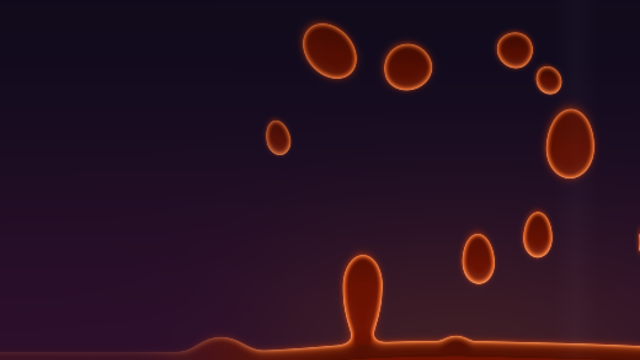
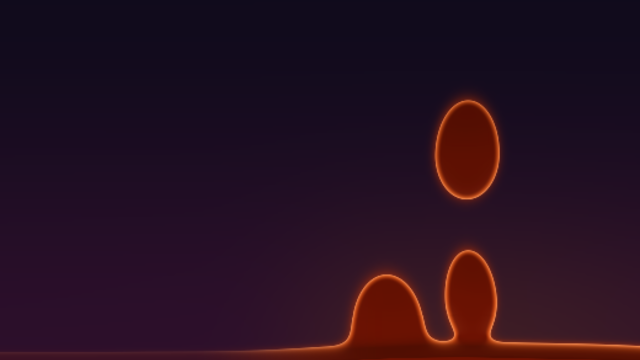
lava-lamp: two or three big blobs, count and size settings
A real lamp shows 2-4 blobs in motion, sized against its height; many
small drops read as an overheated lamp. amount is replaced by count
(1-8, default 3) and size (50-150 %); big blobs move slower and deform
more, neck beads are rare and rejoin the pool.

diff --git a/effects/lava-lamp/index.js b/effects/lava-lamp/index.js
@@ -51,21 +51,22 @@ function readTones(host, scheme) {
 const T0 = 0.3, KR = 1.73;
 // Wax from primary, the liquid from tertiary (dark) or secondary (light).
 const SCENE = {
-  home: 'dark', seed: 4127, reseed: ['amount', 'heat'], fresh: true,
+  home: 'dark', seed: 4127, reseed: ['count', 'size', 'heat'], fresh: true,
   tones: (read, scheme) => scheme === 'light'
     ? {top: mixc(read('--sf-neutral-98', '#faf9fe'), read('--sf-tertiary-95', '#ffebfc'), 0.5), low: mixc(read('--sf-neutral-100', '#ffffff'), read('--sf-secondary-95', '#ecf0ff'), 0.6),
       bulb: read('--sf-secondary-90', '#dae2f9'), deep: sat(mixc(read('--sf-primary-70', '#7eabff'), read('--sf-primary-80', '#acc7ff'), 0.6), 1.6), lit: sat(read('--sf-primary-80', '#acc7ff'), 1.4),
-      rim: read('--sf-primary-90', '#d8e2ff'), halo: read('--sf-primary-80', '#acc7ff'), shine: [255, 255, 255]}
+      rim: read('--sf-primary-90', '#d8e2ff'), halo: read('--sf-primary-80', '#acc7ff')}
     : {top: mixc(read('--sf-neutral-5', '#111318'), read('--sf-tertiary-10', '#29132f'), 0.6).map((c) => c * 0.85), low: mixc(read('--sf-tertiary-20', '#402845'), read('--sf-primary-20', '#002e69'), 0.3).map((c) => c * 0.8),
       bulb: vivid(read('--sf-secondary-40', '#565e71'), 1.3), deep: vivid(read('--sf-primary-20', '#002e69'), 1.6), lit: vivid(read('--sf-primary-50', '#2a75e8'), 1.4),
-      rim: mixc(read('--sf-primary-70', '#7eabff'), read('--sf-primary-80', '#acc7ff'), 0.4), halo: vivid(read('--sf-primary-40', '#005bbe'), 1.5), shine: read('--sf-tertiary-90', '#fbd7fc')},
+      rim: mixc(read('--sf-primary-70', '#7eabff'), read('--sf-primary-80', '#acc7ff'), 0.4), halo: vivid(read('--sf-primary-40', '#005bbe'), 1.5)},
   setup(env) {
     const {w, h, values} = env;
     const random = rng(SCENE.seed + env.salt);
-    const n = max(3, Math.round((4 + values.amount / 100 * 13) * clamp(w / h / 1.6, 0.6, 1.4)));
+    // A few big blobs, sized by the area's height (the lamp's height), as in a real lamp.
+    const n = max(1, values.count | 0), z = values.size / 100;
     const blobs = [];
     for (let i = 0; i < n; i += 1) {
-      const b = blob(random, h * (0.035 + 0.05 * random() ** 1.6), lane(env, random));
+      const b = blob(random, h * (0.085 + 0.035 * random()) * z, lane(env, random));
       b.y = random() < 0.5 ? h * (1 + 0.2 * b.r / h) : h * (0.1 + random() * 0.85); b.T = random() * 1.1;
       blobs.push(b);
     }
@@ -89,7 +90,7 @@ const SCENE = {
     }
     if (hit || state.blobs.length > state.n + 3) return;
     // Nothing near: a blob buds from the pool below the point (it melts back later).
-    const b = blob(state.random, h * (0.04 + 0.03 * state.random()), x);
+    const b = blob(state.random, h * (0.06 + 0.03 * state.random()) * env.values.size / 100, x);
     Object.assign(b, {y: h + b.r * 0.6, T: 1.35, g: 0.25, sw: 0.6, bud: true});
     state.blobs.push(b);
   },
@@ -108,10 +109,6 @@ const SCENE = {
     const cw = state.fw / state.s, ch = state.fh / state.s;
     ctx.drawImage(state.buf, 0, 0, cw, ch);
     ctx.drawImage(state.fbuf, 0, 0, cw, ch);
-    // The glass: one faint vertical highlight on the right.
-    const gx = w * 0.9, gw = w * 0.035, g = ctx.createLinearGradient(gx - gw, 0, gx + gw, 0);
-    g.addColorStop(0, rgba(tones.shine, 0)); g.addColorStop(0.5, rgba(tones.shine, (light ? 0.22 : 0.035) * k)); g.addColorStop(1, rgba(tones.shine, 0));
-    ctx.fillStyle = g; ctx.fillRect(gx - gw, 0, gw * 2, h);
     // A heat pulse: a warm swell of light, fading over two seconds.
     for (const p of state.pulses) {
       p.a -= dt * 0.5;
@@ -129,7 +126,7 @@ const SCENE = {
   },
 };
 // Most wax rises over the centre-right and right; a few lanes cross the text side, faint there.
-function lane(env, random) { return env.w * (random() < 0.88 ? 0.5 + random() * 0.46 : 0.22 + random() * 0.3); }
+function lane(env, random) { return env.w * (random() < 0.88 ? 0.55 + random() * 0.38 : 0.3 + random() * 0.25); }
 function blob(random, r, x) {
   return {r, lane: x, x, y: 0, T: 0, ph: random() * 100, rate: 0.75 + random() * 0.5, sw: 0, sv: 0, g: 1, sq: 0, ux: 0, uy: -1, vx: 0, vy: 0};
 }
@@ -143,7 +140,7 @@ function buffer(env, state) {
   const bctx = buf.getContext('2d'), fctx = fbuf.getContext('2d'), fimg = fctx.createImageData(fw, fh);
   // Over the text zone on the left the wax is only a faint trace.
   const fx = new Float32Array(fw);
-  for (let x = 0; x < fw; x += 1) fx[x] = 0.14 + 0.86 * smooth(clamp(((x + 0.5) / fw - 0.2) / 0.36, 0, 1));
+  for (let x = 0; x < fw; x += 1) fx[x] = 0.14 + 0.86 * smooth(clamp(((x + 0.5) / fw - 0.3) / 0.3, 0, 1));
   Object.assign(state, {buf, bctx, fbuf, fctx, fimg, px: new Uint32Array(fimg.data.buffer), img: bctx.createImageData(bw, bh), bw, bh, fw, fh, m, s, fx, F: new Float32Array(fw * fh), rx0: new Int32Array(fh), rx1: new Int32Array(fh)});
 }
 // One step of the lamp: temperature, buoyancy and a viscous lag; heat only in the bottom band.
@@ -151,7 +148,7 @@ function step(env, state, dt, live) {
   const {w, h, values, pointer} = env;
   const heat = 0.5 + values.heat / 100, vmax = h * 0.13, bulb = 0.72;
   state.time += dt;
-  const T = state.time, blobs = state.blobs, random = state.random;
+  const T = state.time, blobs = state.blobs, random = state.random, born = [];
   const px = pointer.x * w, py = pointer.y * h, warm = live && pointer.on;
   for (const b of blobs) {
     const rr = b.r / h, up = b.y / h;
@@ -163,7 +160,7 @@ function step(env, state, dt, live) {
     const buoy = b.T - 0.5;
     // Held by the pool, warm wax only swells as a dome until it is hot enough to tear off.
     const held = up > 0.9 && b.T < 1 && buoy > 0;
-    const vt = -buoy * vmax * (0.55 + rr * 8) * (1 + 0.15 * b.sw) * (held ? 0.12 : 1);
+    const vt = -buoy * vmax * (1.1 - rr * 3.5) * (1 + 0.15 * b.sw) * (held ? 0.12 : 1);
     b.vy += (vt - b.vy) * min(1, dt * 0.7);
     // Under the top the wax slows and flattens a little.
     const cap = b.y - b.r * 0.8 - h * 0.03;
@@ -173,17 +170,19 @@ function step(env, state, dt, live) {
     b.vx += ((b.lane - b.x) * 0.06 + drift - b.vx) * min(1, dt * 0.5);
     b.x += b.vx * dt; b.y += b.vy * dt;
     // Resting in the pool the wax sits half sunk; there it drifts to a new lane now and then.
-    const floor = h + b.r * 0.25;
+    const floor = h + b.r * 0.4;
     if (b.y > floor) { b.y = floor; if (b.vy > 0) b.vy = 0; if (random() < dt * 0.04) b.lane = lane(env, random); }
     if (b.y < b.r * 0.5) b.y = b.r * 0.5;
     b.sw *= exp(-dt * 0.25);
     b.sv += (b.sw - b.sv) * min(1, dt * 4);
     b.g += (1 - b.g) * min(1, dt * 1.2);
-    if (b.bud && b.y >= floor && b.T < 0.45) b.gone = true;
+    if (b.y >= floor) { b.left = 0; if (b.bud > 1 || b.bud && b.T < 0.45) b.gone = true; }
+    // Tearing off the pool, the neck now and then pinches a small bead that sinks back.
+    if (live && !b.left && !b.bud && up < 0.82 && up > 0.7 && b.vy < 0) { b.left = 1; if (random() < 0.35) born.push(Object.assign(blob(random, b.r * 0.28, b.x), {y: b.y + b.r * 1.2, T: 0.42, g: 0.5, bud: 2})); }
     const sp = hypot(b.vx, b.vy) || 1;
     b.ux += (b.vx / sp * 0.5 - b.ux) * min(1, dt * 2); b.uy += (b.vy / sp - b.uy) * min(1, dt * 2);
   }
-  if (blobs.some((b) => b.gone)) state.blobs = blobs.filter((b) => !b.gone);
+  state.blobs = blobs.filter((b) => !b.gone).concat(born);
   // Wax in the liquid keeps a little apart, so blobs pass each other instead of fusing for good.
   for (let i = 0; i < blobs.length; i += 1) for (let j = i + 1; j < blobs.length; j += 1) {
     const a = blobs[i], b = blobs[j], dx = b.x - a.x, dy = b.y - a.y, d = hypot(dx, dy) || 1, m = (a.r + b.r) * 0.9;
@@ -211,7 +210,8 @@ function shade(env, state, k, light) {
   }
   for (const b of state.blobs) {
     const r = b.r * b.g * (1 + 0.3 * b.sv) * s * KR, sp = hypot(b.vx, b.vy) / h;
-    const e = clamp(sp / 0.06, 0, 1), st = 1 + e * 0.5, sq = b.sq * 0.15;
+    // Big wax sags, stretches with speed and wobbles slowly.
+    const e = clamp(sp / 0.06, 0, 1), wob = 1 + 0.06 * Math.sin(b.ph + time * 0.6), st = (1 + e * 0.7) * wob, sq = b.sq * 0.15;
     const ul = hypot(b.ux, b.uy) || 1, ux = b.ux / ul, uy = b.uy / ul;
     const front = r * st * (1 - 0.15 * e) * (1 - sq), rear = r * st * (1 + 0.45 * e) * (1 - sq), side = r / Math.sqrt(st) * (1 + sq);
     const R = max(rear, side), cx = b.x * s, cy = b.y * s;

diff --git a/effects/lava-lamp/README.md b/effects/lava-lamp/README.md
@@ -10,11 +10,13 @@ The inside of a lava lamp: a dome of wax swells out of the warm pool at the bott
 
 ## How it works
 
-Each blob of wax carries a temperature. Heat comes only from the bottom band, strongest over the "bulb" on the centre-right; above it the liquid is cool and coldest under the top. Buoyancy is the temperature minus the neutral point, and the speed follows it with a viscous lag, so the wax never bounces. Warm wax is held by the pool and swells as a dome until it is hot enough to tear off; it rises, cools on the way, slows and flattens a little under the top, then sinks and joins the pool again. A cycle takes tens of seconds, and each blob has its own size, pace and lane, so the motion never repeats.
+Like a real lamp, it shows a few big blobs (three by default) rather than many small drops. Blobs are sized by the area's height, which stands for the lamp's height, so a wide page keeps the proportions of a lamp; they keep mostly to the centre-right and right.
 
-The shape is a metaball field: each blob is an ellipse stretched along its motion, longer behind than in front, so a rising blob trails a tail and a neck to the pool; touching blobs fuse smoothly. The field lives on a fine buffer (cells of at most 1.7 CSS px), and the wax surface is drawn from it with an edge anti-aliased to one cell, so the surface stays crisp (about 2 CSS px from 10 % to 90 %). Only the rows the wax can reach are shaded. A coarse buffer (about 38 000 cells) carries the liquid, lit warm from below, and the soft halo the wax casts into it. Both are scaled up with smoothing; if frames stay slow, both get coarser.
+Each blob carries a temperature. Heat comes only from the bottom band, strongest over the "bulb" on the centre-right; above it the liquid is cool and coldest under the top. Buoyancy is the temperature minus the neutral point, and the speed follows it with a viscous lag, so the wax never bounces; bigger blobs move more slowly. Warm wax is held by the pool and swells as a dome or a column until it is hot enough to tear off; it rises, cools on the way, slows and flattens a little under the top, then sinks and joins the pool again. A cycle takes tens of seconds, and each blob has its own size, pace and lane, so the motion never repeats. Now and then a neck pinches off a small bead as a blob leaves the pool; the bead sinks back within seconds.
 
-The wax is translucent and lit from within: in dark, the thick centres are deep red, a thin band near the edge is hot orange, a bright rim runs along the edge and the underside facing the bulb glows. In light, the wax is a saturated light orange with a lit edge. A faint glass highlight runs down the right.
+The shape is a metaball field: each blob is an ellipse stretched along its motion, longer behind than in front and slowly wobbling, so a rising blob trails a tail and a neck to the pool; touching blobs fuse smoothly. The field lives on a fine buffer (cells of at most 1.7 CSS px), and the wax surface is drawn from it with an edge anti-aliased to one cell, so the surface stays crisp (about 2 CSS px from 10 % to 90 %). Only the rows the wax can reach are shaded. A coarse buffer (about 38 000 cells) carries the liquid, lit warm from below, and the soft halo the wax casts into it. Both are scaled up with smoothing; if frames stay slow, both get coarser.
+
+The wax is translucent and lit from within: in dark, the thick centres are deep red, a thin band near the edge is hot orange, a bright rim runs along the edge and the underside facing the bulb glows. In light, the wax is a saturated light orange with a lit edge.
 
 A press sends a heat pulse: wax near the point swells at once and starts to rise; with none near, a new blob buds from the pool below the point and later melts back into it.
 
@@ -24,8 +26,9 @@ A press sends a heat pulse: wax near the point swells at once and starts to rise
 |:---|:---|:---|:---|:---|
 | `speed` | integer | 10–300 % | `100` | Speed |
 | `intensity` | integer | 10–100 % | `70` | Intensity: how strongly the wax and its glow show |
-| `amount` | integer | 10–100 % | `50` | Amount of wax: the number of blobs (a little more on a wide area) |
-| `heat` | integer | 10–100 % | `50` | Heat: the hotter, the more often the wax rises, the higher it goes and the deeper the pool |
+| `count` | integer | 1–8 | `3` | Number of blobs: how many big blobs of wax move in the lamp (a real lamp usually has two or three) |
+| `size` | integer | 50–150 % | `100` | Blob size, relative to the area's height: at 100 % a blob is about a fifth of the height, as in a real lamp |
+| `heat` | integer | 10–100 % | `50` | Heat: the hotter, the more often blobs tear off the pool, the higher they rise and the deeper the pool |
 | `palette` | choice | `classic`, `theme`, `turquoise`, `ocean`, `violet`, `rose`, `emerald`, `sunset`, `gold`, `silver`, `custom` | `"classic"` | Palette. `classic` is warm orange wax in a deep violet liquid (dark) or a pale amber one (light); `theme` follows the theme colour; the others stay as they are |
 | `colour` | color | hex | `"#3b82f6"` | Colour, read only while `palette` is `custom`: the effect builds every tone from it |
 | `interactive` | boolean | | `true` | React to the pointer: the pointer gently warms the wax nearby, so blobs swell and drift up; a press sends a heat pulse: the nearest blob swells and rises, or, with none near, a new one buds from the pool below the point |
